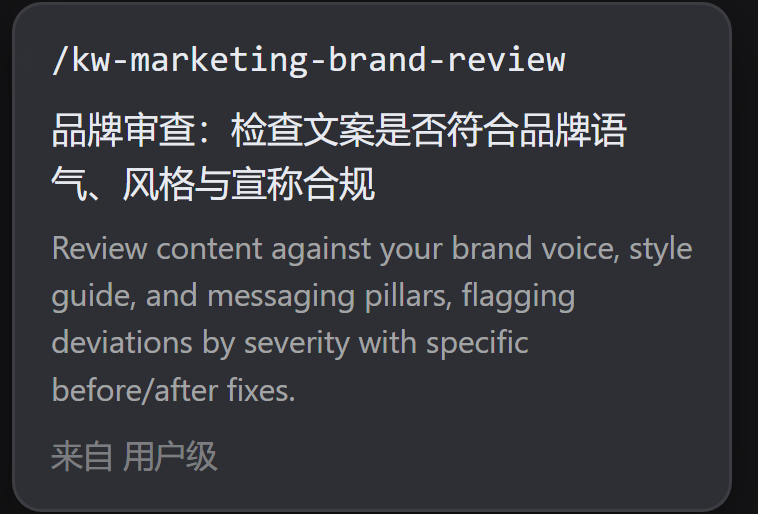
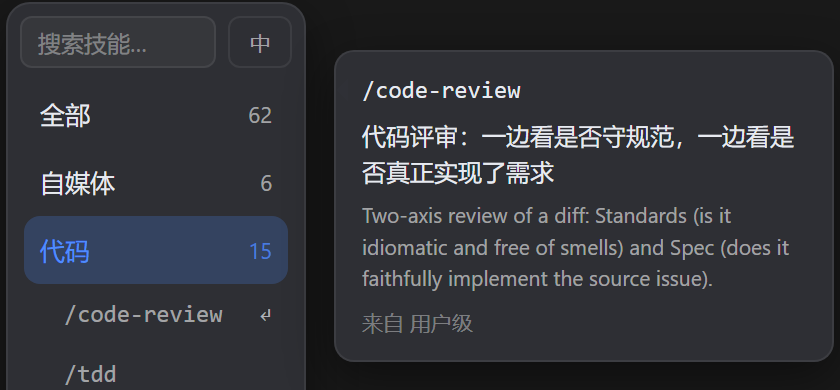
docs: show the drawer in a real new-conversation layout

diff --git a/README.md b/README.md
@@ -9,7 +9,7 @@
 session already has (user-level and project-level), groups them into categories, lets you search
 by name or description, and inserts `/name ` at the caret. No build step, MIT licensed.</sub>
 
-![抽屉展开](docs/screenshot-menu.png)
+![抽屉展开](docs/screenshot-overview.png)
 
 ## 能做什么
 
